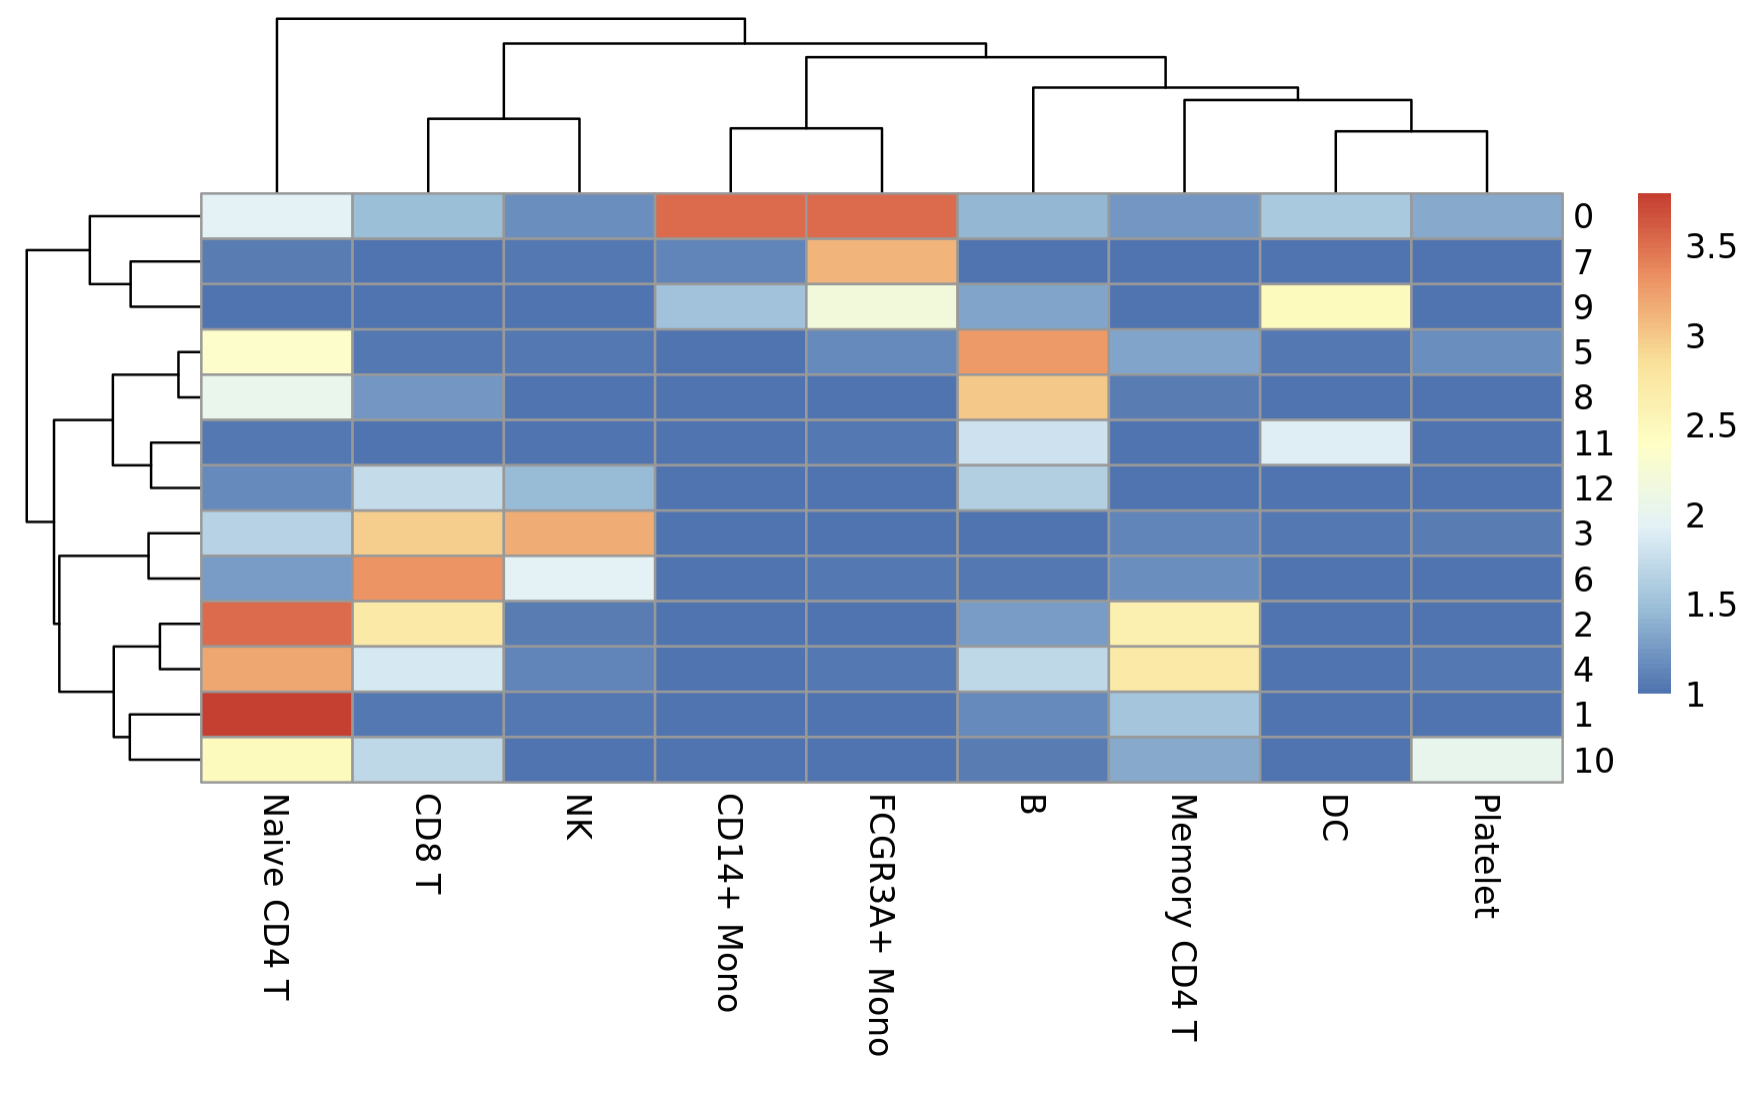
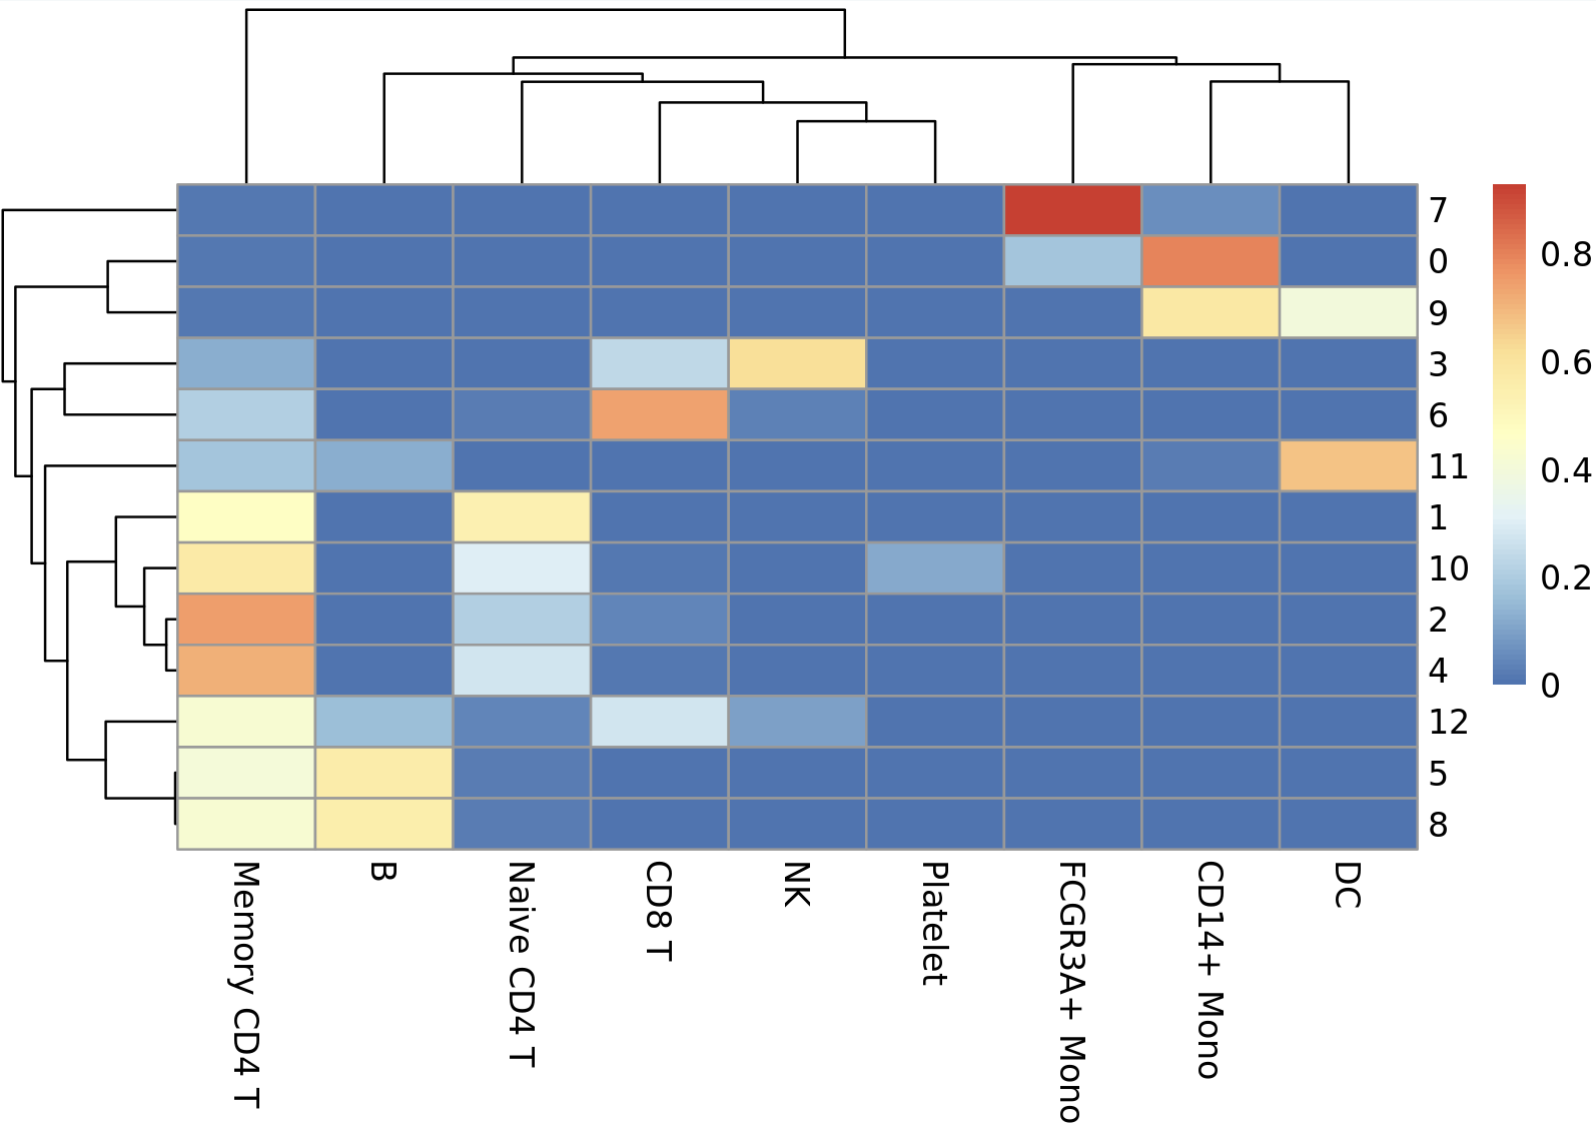
update 06

diff --git a/docs/intro_to_single_cell_rnaseq/06_cell_type_identification.md b/docs/intro_to_single_cell_rnaseq/06_cell_type_identification.md
@@ -5,7 +5,7 @@ title: "Cell type identification"
 # Cell-type Identification [DRAFT]
 In this section, we'll demonstrate two automated methods to label cells in our dataset using reference datasets with known cell labels. More information on these methods is presented in [Lecture Part II)(slides/day2_temp.pdf).
 
-- [SingleR](https://bioconductor.org/packages/devel/bioc/vignettes/SingleR/inst/doc/SingleR.html) method, which uses correlation of gene expression. This method can use both single-cell and bulk RNAseq reference datasets
+- [SingleR](https://bioconductor.org/packages/devel/bioc/vignettes/SingleR/inst/doc/SingleR.html) method, which uses correlation of gene expression. This method can use both single-cell and bulk RNAseq reference datasets. 
 - [Seurat Integration Mapping](https://satijalab.org/seurat/articles/integration_mapping.html) which applies integration between a labeled, reference single-cell RNAseq dataset and our query dataset
 
 To start, we set our library path on the HPC cluster:
@@ -56,7 +56,11 @@ plot_grid(p1, p2)
 ## SingleR Correlation Method 
 First, we'll use [SingleR](https://github.com/LTLA/SingleR) along with a reference database of expression profiles of known cell types in order to identify our cells and clusters. As mentioned in the lecture, this method measures the correlation of overall gene expression between cells in a reference database with cells in the query dataset in order to label cells.
 
-To start, we'll use a database of bulk RNAseq profiles of Human pure cell-types called the Human Primary Cell Type Atlas.  This dataset along with several others is available through the [celldex](https://rdrr.io/github/LTLA/celldex/man/HumanPrimaryCellAtlasData.html) R library. To load, type the following, and type `yes` when prompted to create the `ExperimentHub` directory in a hidden `.cache` directory in your home folder.
+To start, we'll use a database of bulk RNAseq profiles of Human pure cell-types called the Human Primary Cell Type Atlas.  This dataset along with several others is available through the [celldex](https://rdrr.io/github/LTLA/celldex/man/HumanPrimaryCellAtlasData.html) R library. A database like this is useful as a starting point to determine which broad cell types your sample has, either because there is no existing single-cell reference for your sample-type, or because you want to make sure that your sample-type contains the expected cell types before using a more specific single-cell reference. 
+
+
+
+To load, type the following, and type `yes` when prompted to create the `ExperimentHub` directory in a hidden `.cache` directory in your home folder.
 ```R
 hpca = HumanPrimaryCellAtlasData()
 ```
@@ -203,7 +207,7 @@ The cell-level labels have one row for every cell. The table contains scores for
 ```R
 integ_seurat  = AddMetaData(integ_seurat,
                                  pred_cell$pruned.labels,
-                                 "singler_cell_labels")
+                                 col.name = "singler_cell_labels")
 ```
 
 Assign the idents and make a plot:
@@ -226,19 +230,18 @@ pheatmap(tab)
 ```
 ![](images/pred_cell_heatmap.png)
 
-??? questions "Are the dominant cell-level labels the same as the cluster-level labels? Add a row annotation of the cluster-level labels in order to compare visually". 
+??? question "Are the dominant cell-level labels the same as the cluster-level labels? Add a row annotation of the cluster-level labels in order to compare visually". 
 
-Some clusters appear to have a mix of cells, which may indicate that they contain a type of cell not in our reference database. This is expected since we've used a very general database. Next we'll use a single-cell RNAseq dataset that we expect will have a perfect match to our data.
+Some clusters appear to have a mix of cells, which may indicate that they contain a type of cell not in our reference database. This is expected since we've used a very general database. Next we'll use a single-cell RNAseq dataset that we expect will have a better match to our data.
 
-## Integration Mapping Method (Seurat)
+## Seurat Integration Mapping
 
-These are PBMC from another source, processed through the Seurat pipeline as our data. Let's load and view the metadata:
+The next reference dataset is a PBMC dataset [available from 10X Genomics](https://cf.10xgenomics.com/samples/cell/pbmc3k/pbmc3k_filtered_gene_bc_matrices.tar.gz) which has been pre-processed through the Seurat pipeline. Load the data:
 ```R
 pbmc = readRDS(file.path(baseDir, "data/pbmc_reference.rds"))
-head(pbmc)
 ```
 
-Set the identities and plot
+The cell-type label is in the `seurat_annotation` metadata column. Set the cell identities to this column and plot:
 ```R
 Idents(pbmc) = "seurat_annotations"
 DimPlot(pbmc, label=T)
@@ -246,32 +249,34 @@ DimPlot(pbmc, label=T)
 
 ![](images/pbmc_reference_label.png)
 
-Find the transfer anchors:
+We see there are more specific T-cell and Monocyte cell subset labels. 
+
+The first step is to find the transfer anchors using the function `FindTransferAnchors` with the following code. This step similar to the `FindIntegrationAnchors` function in the integration step, except the PCA is performed only on the reference dataset and the query dataset is projected onto the reference learned PCA structure (`reduction = "pcaproject"` and `project.query = FALSE` by default). This allows us to potentially use a reference dataset with many more cell types than our query dataset. 
+
 ```R
 anchors <- FindTransferAnchors(reference = pbmc, 
-                                   query = integ_seurat,
-                                   reduction = "pcaproject",
-                                   reference.reduction = "pca",
-                                   dims = 1:30)
+                                   query = integ_seurat)
 ```
 
-Make cell type predictions by transfering the anchors:
+Next, we'll transfer the reference cell-type labels to the query using `TransferData`. This step uses the proximity of each query cells to each anchors in order to label query cells.
 ```R
 predictions<- TransferData(anchorset = anchors, 
-                                refdata = pbmc$seurat_annotations,
-                                dims = 1:30)
+                                refdata = pbmc$seurat_annotations)
+                                
 ```
 
 Add the predicted id to the metadata:
 ```R
 integ_seurat <- AddMetaData(integ_seurat, 
-                                 metadata = predictions)
+                                 metadata = predictions$predicted.id,
+                                 col.name = "seurat_annotations")
 ```
 
-Set the Idents and plot:
+Set the identities to our newly added column and plot:
 ```R
-Idents(integ_seurat) = "predicted.id"
-DimPlot(integ_seurat, label=T )
+Idents(integ_seurat) = "seurat_annotations"
+DimPlot(integ_seurat, 
+            label=T )
 ```
 
 ![](images/integrate_label.png)
@@ -279,13 +284,21 @@ DimPlot(integ_seurat, label=T )
 We can view the breakdown per cluster as a heatmap:
 ```R
 tab <- table(cluster=integ_seurat$integrated_snn_res.0.4,
-             label=integ_seurat$predicted.id)
-pheatmap(log10(tab+10)) 
+             label=integ_seurat$seurat_annotations)
+
+# divide by the total number of cells in each cluster
+tab <- tab/rowSums(tab)
+
+pheatmap(tab) 
 ```
 
 ![](images/integrate_heatmap.png)
 
-Finally, we have to save the labeled object:
+Cluster 11 is not predominantly Dendritic Cells. 
+
+Finally, we save the labeled object:
 ```R
 saveRDS(integ_seurat, file.path(baseDir,"results/labeled_seurat.rds"))
 ```
+
+In the next section we'll look at a type of Differentially Expressed Gene known as a Marker Gene, which can help to confirm cell-type labels by confirming expression of known cell-type specific genes.
